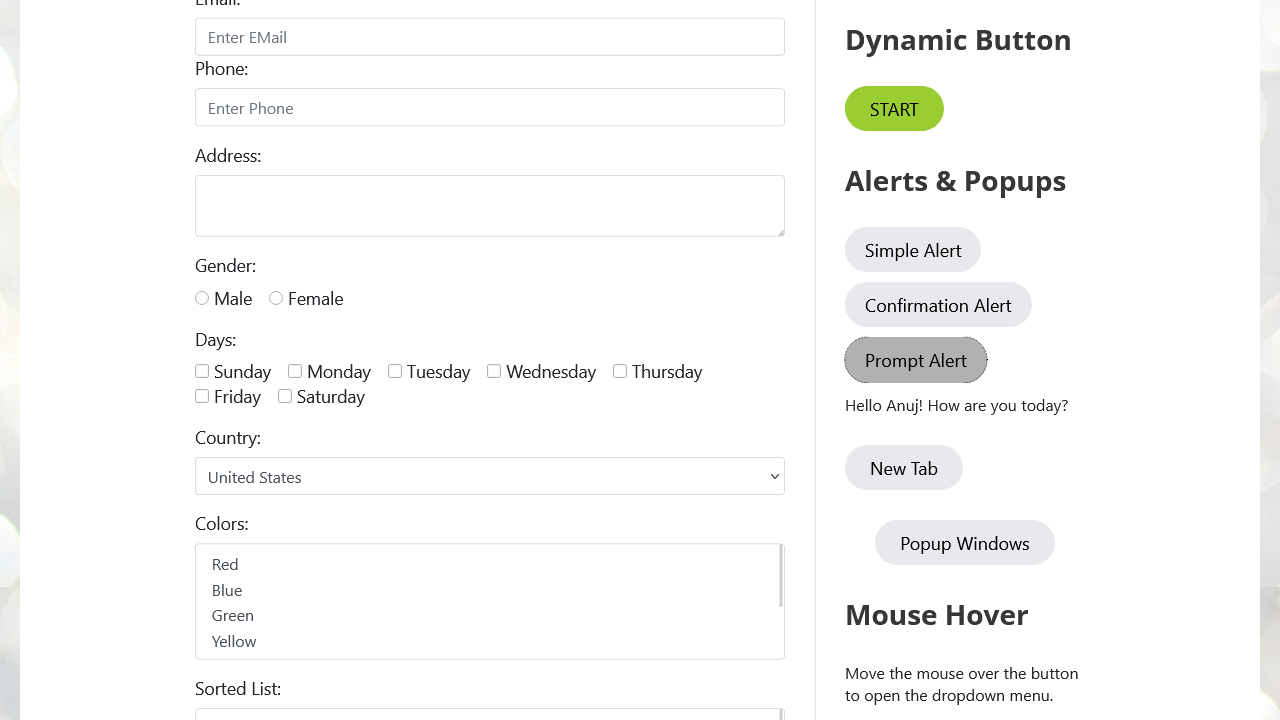
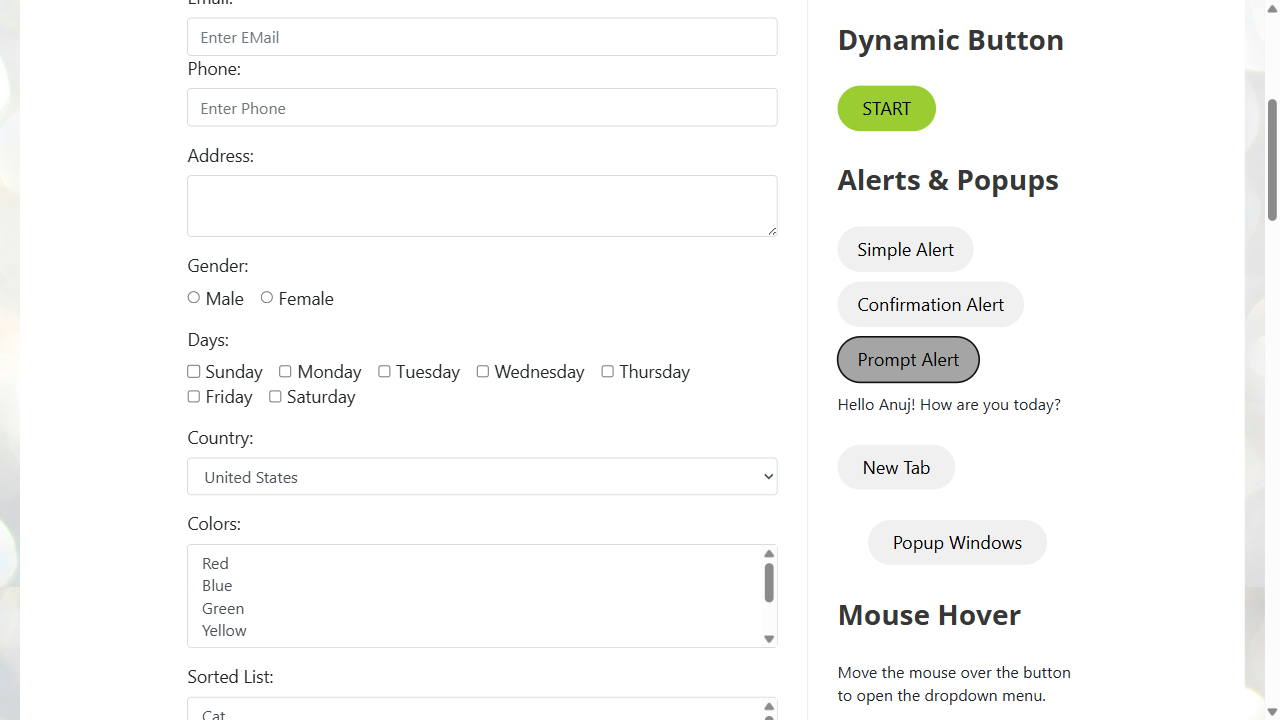
modified poll scm

diff --git a/playwright.config.js b/playwright.config.js
@@ -4,6 +4,10 @@
 import { defineConfig, devices } from '@playwright/test';
 
 export default defineConfig({
+
+  
+  reporter: [["line"], ["allure-playwright"]],
+allure open ./allure-report
   testDir: './tests',
   timeout: 40000,
   expect: {